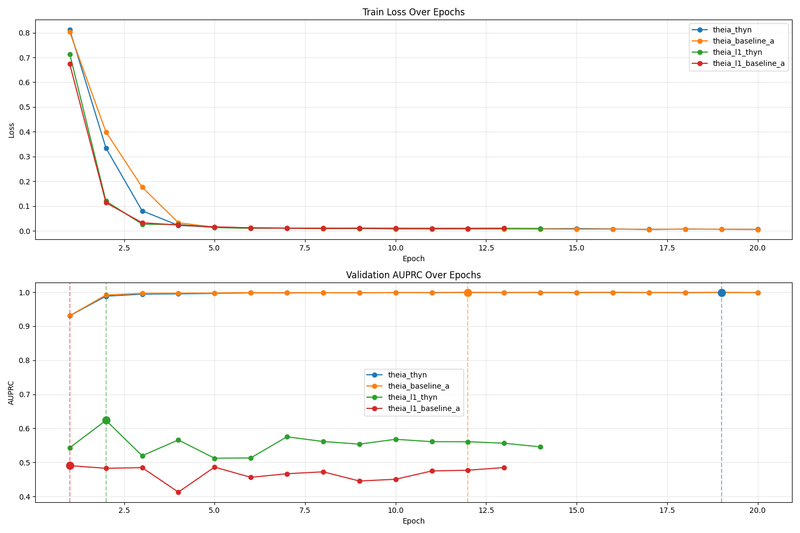
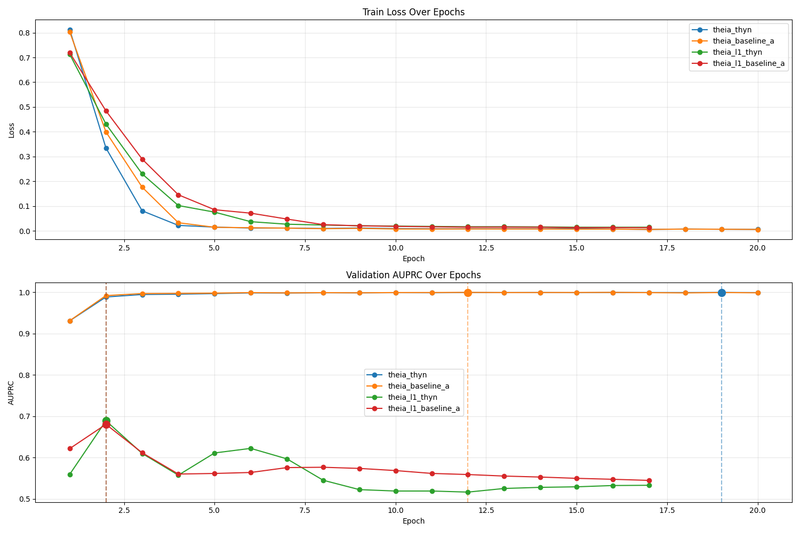
train with multi gpu

diff --git a/src/pipeline/train.py b/src/pipeline/train.py
@@ -81,12 +81,40 @@ def log(msg):
                 f.write(str(msg) + "\n")
 
 
+class EMA:
+    def __init__(self, model, decay=0.999):
+        self.decay = decay
+        self.shadow = {}
+        self.active = {}
+        for name, param in model.named_parameters():
+            if param.requires_grad:
+                self.shadow[name] = param.data.clone()
+                self.active[name] = param.data.clone()
+
+    def update(self, model):
+        for name, param in model.named_parameters():
+            if param.requires_grad:
+                self.shadow[name].sub_((1.0 - self.decay) * (self.shadow[name] - param.data))
+
+    def apply_shadow(self, model):
+        for name, param in model.named_parameters():
+            if param.requires_grad:
+                self.active[name].copy_(param.data)
+                param.data.copy_(self.shadow[name])
+
+    def restore(self, model):
+        for name, param in model.named_parameters():
+            if param.requires_grad:
+                param.data.copy_(self.active[name])
+
 # ── Training logic ───────────────────────────────────────────
 
-def masked_bce_loss(logits, y, mask, pos_weight_t):
+def masked_bce_loss(logits, y, mask, pos_weight_t, label_smoothing=0.0):
     real = mask.bool()
     logits_real = logits[real]
     y_real = y[real].float()
+    if label_smoothing > 0.0:
+        y_real = y_real * (1.0 - label_smoothing) + 0.5 * label_smoothing
 
     if logits_real.numel() == 0:
         return (logits.sum() * 0.0)
@@ -104,7 +132,7 @@ def masked_bce_loss(logits, y, mask, pos_weight_t):
     return loss
 
 
-def focal_bce_loss(logits, y, mask, pos_weight_t, gamma=2.0, alpha=None):
+def focal_bce_loss(logits, y, mask, pos_weight_t, gamma=2.0, alpha=None, label_smoothing=0.0):
     """Focal loss with optional pos_weight and alpha balancing.
 
     FL(p_t) = -alpha_t * (1 - p_t)^gamma * log(p_t)
@@ -118,10 +146,13 @@ def focal_bce_loss(logits, y, mask, pos_weight_t, gamma=2.0, alpha=None):
         pos_weight_t: positive class weight tensor (used only if alpha is None)
         gamma: focusing parameter (higher = more focus on hard examples)
         alpha: balance factor for positive class [0,1]. If None, use pos_weight.
+        label_smoothing: apply label smoothing [0,1]
     """
     real = mask.bool()
     logits_real = logits[real]
     y_real = y[real].float()
+    if label_smoothing > 0.0:
+        y_real = y_real * (1.0 - label_smoothing) + 0.5 * label_smoothing
 
     if logits_real.numel() == 0:
         return (logits.sum() * 0.0)
@@ -233,7 +264,7 @@ def compute_metrics(all_logits, all_labels, fixed_threshold=None):
 
 def train_epoch(model, loader, optimizer, pw_t, grad_clip, device,
                 log_every=100, loss_fn=None, accumulation_steps=1,
-                scheduler_step_fn=None):
+                scheduler_step_fn=None, ema=None):
     """Run one training epoch.
 
     Args:
@@ -305,6 +336,9 @@ def train_epoch(model, loader, optimizer, pw_t, grad_clip, device,
                 nn.utils.clip_grad_norm_(model.parameters(), grad_clip)
             optimizer.step()
             optimizer.zero_grad()
+            if ema is not None:
+                raw = model.module if isinstance(model, DDP) else model
+                ema.update(raw)
             if scheduler_step_fn is not None:
                 scheduler_step_fn()
 
@@ -548,16 +582,26 @@ def main():
         log(f"  Auto pos_weight: {pw_val:.1f} "
             f"(neg={n_neg:,} / pos={n_pos:,})")
     pw_t = torch.tensor([pw_val], device=device)
-    grad_clip = tcfg["grad_clip"]
-    patience = tcfg["patience"]
+    grad_clip = tcfg.get("grad_clip", 1.0)
+    patience = tcfg.get("patience", 12)
+    label_smoothing = tcfg.get("label_smoothing", 0.0)
+    use_ema = tcfg.get("use_ema", False)
+    
+    ema = None
+    if use_ema:
+        raw = model.module if isinstance(model, DDP) else model
+        ema = EMA(raw, decay=0.999)
 
     # ── Build loss function ──
     if loss_type == "focal":
         def loss_fn(logits, y, mask, pw):
             return focal_bce_loss(logits, y, mask, pw,
-                                  gamma=focal_gamma, alpha=focal_alpha)
+                                  gamma=focal_gamma, alpha=focal_alpha,
+                                  label_smoothing=label_smoothing)
     else:
-        loss_fn = masked_bce_loss
+        def loss_fn(logits, y, mask, pw):
+            return masked_bce_loss(logits, y, mask, pw,
+                                   label_smoothing=label_smoothing)
     log_every = tcfg["log_every"]
 
     # ── Train ──
@@ -597,7 +641,8 @@ def main():
             model, train_loader, optimizer, pw_t, grad_clip,
             device, log_every=log_every, loss_fn=loss_fn,
             accumulation_steps=accumulation_steps,
-            scheduler_step_fn=_scheduler_step_fn if warmup_scheduler else None)
+            scheduler_step_fn=_scheduler_step_fn if warmup_scheduler else None,
+            ema=ema)
 
         # Synchronize all ranks before rank 0 runs validation
         if is_distributed():
@@ -609,6 +654,11 @@ def main():
 
         if is_main():
             val_mb = 50 if args.quick else None
+            
+            raw = model.module if isinstance(model, DDP) else model
+            if ema is not None:
+                ema.apply_shadow(raw)
+                
             vm = evaluate(model, val_loader, pw_t, device,
                           max_batches=val_mb, loss_fn=loss_fn)
             val_auprc = vm["auprc"] if not np.isnan(vm["auprc"]) else 0.0
@@ -633,7 +683,6 @@ def main():
                 best_auprc = vm["auprc"]
                 best_epoch = epoch
                 no_improve = 0
-                raw = model.module if isinstance(model, DDP) else model
                 torch.save({
                     "epoch": epoch, "model_state": raw.state_dict(),
                     "optimizer_state": optimizer.state_dict(),
@@ -642,6 +691,9 @@ def main():
                 log(f"  ✓ New best! AUPRC={best_auprc:.4f}")
             else:
                 no_improve += 1
+                
+            if ema is not None:
+                ema.restore(raw)
 
             should_stop = no_improve >= patience
             if should_stop:
